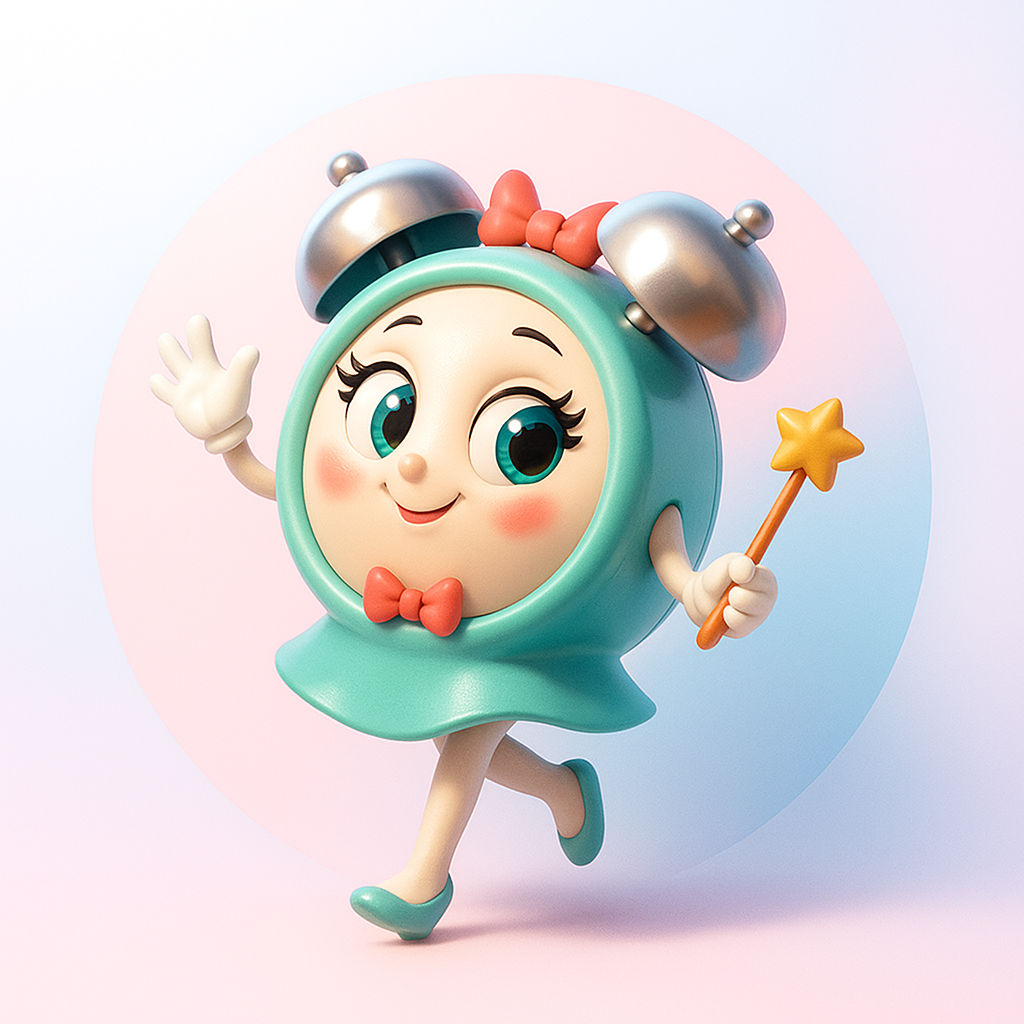
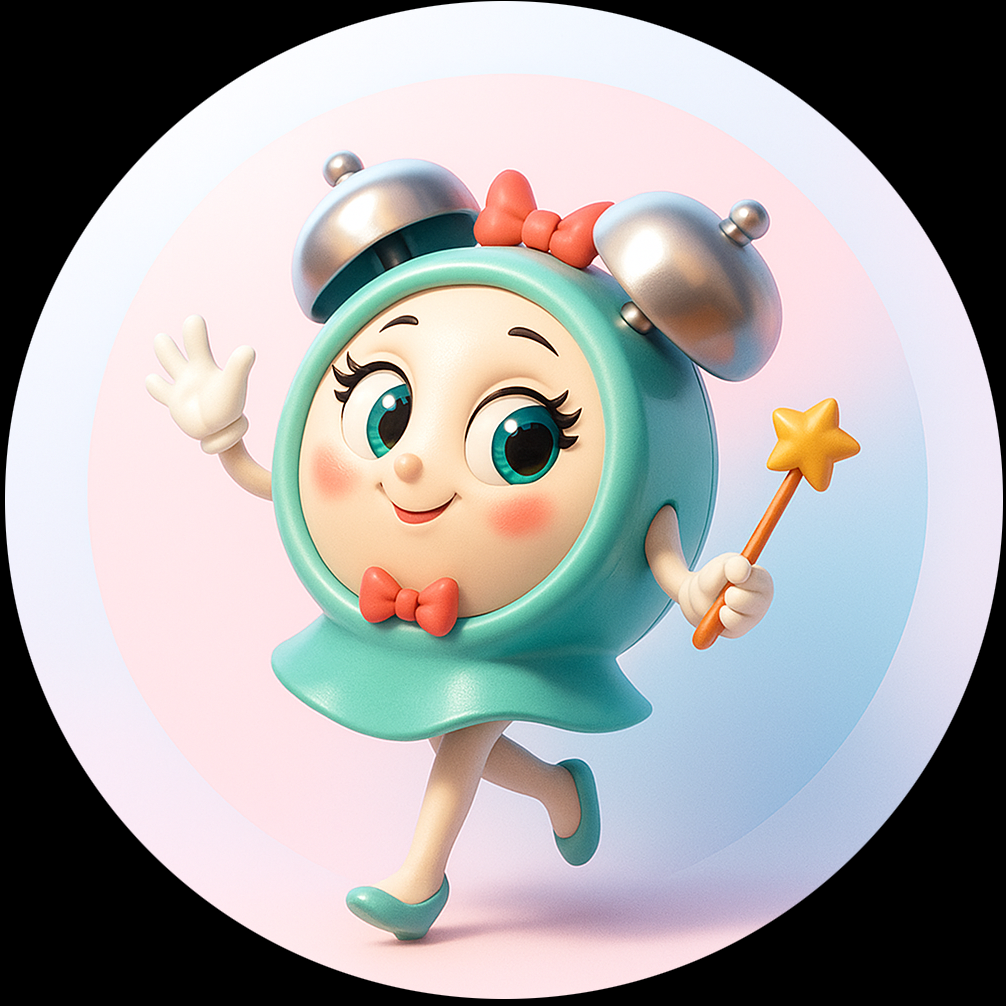
fix: キャラクター画像のサイズを調整
- なわりんの画像サイズを150pxから206pxに変更
- りんりんの画像サイズを150pxから206pxに変更
- りんりんの画像ファイルを更新

diff --git a/README.md b/README.md
@@ -65,11 +65,11 @@
 ### 味方キャラクター
 | キャラクター | 画像 |
 | :--- | :---: |
-| **なわりん** | <img src="ichika_exercise_tracker_character_nawarin.png" width="150"/> |
+| **なわりん** | <img src="ichika_exercise_tracker_character_nawarin.png" width="206"/> |
 | **カレダ姉さん** | <img src="ichika_exercise_tracker_character_caleda.png" width="150"/> |
 | **メモリナ姉さん** | <img src="ichika_exercise_tracker_character_memorina.png" width="150"/> |
 | **紙ロールちゃん** | <img src="ichika_exercise_tracker_character_kami_roll.png" width="150"/> |
-| **りんりん** | <img src="ichika_exercise_tracker_character_rinrin.png" width="150"/> |
+| **りんりん** | <img src="ichika_exercise_tracker_character_rinrin.png" width="206"/> |
 | **スニッキー** | <img src="ichika_exercise_tracker_character_snikky.png" width="150"/> |
 | **パレティーナ** | <img src="ichika_exercise_tracker_character_palettina.png" width="150"/> |
 
